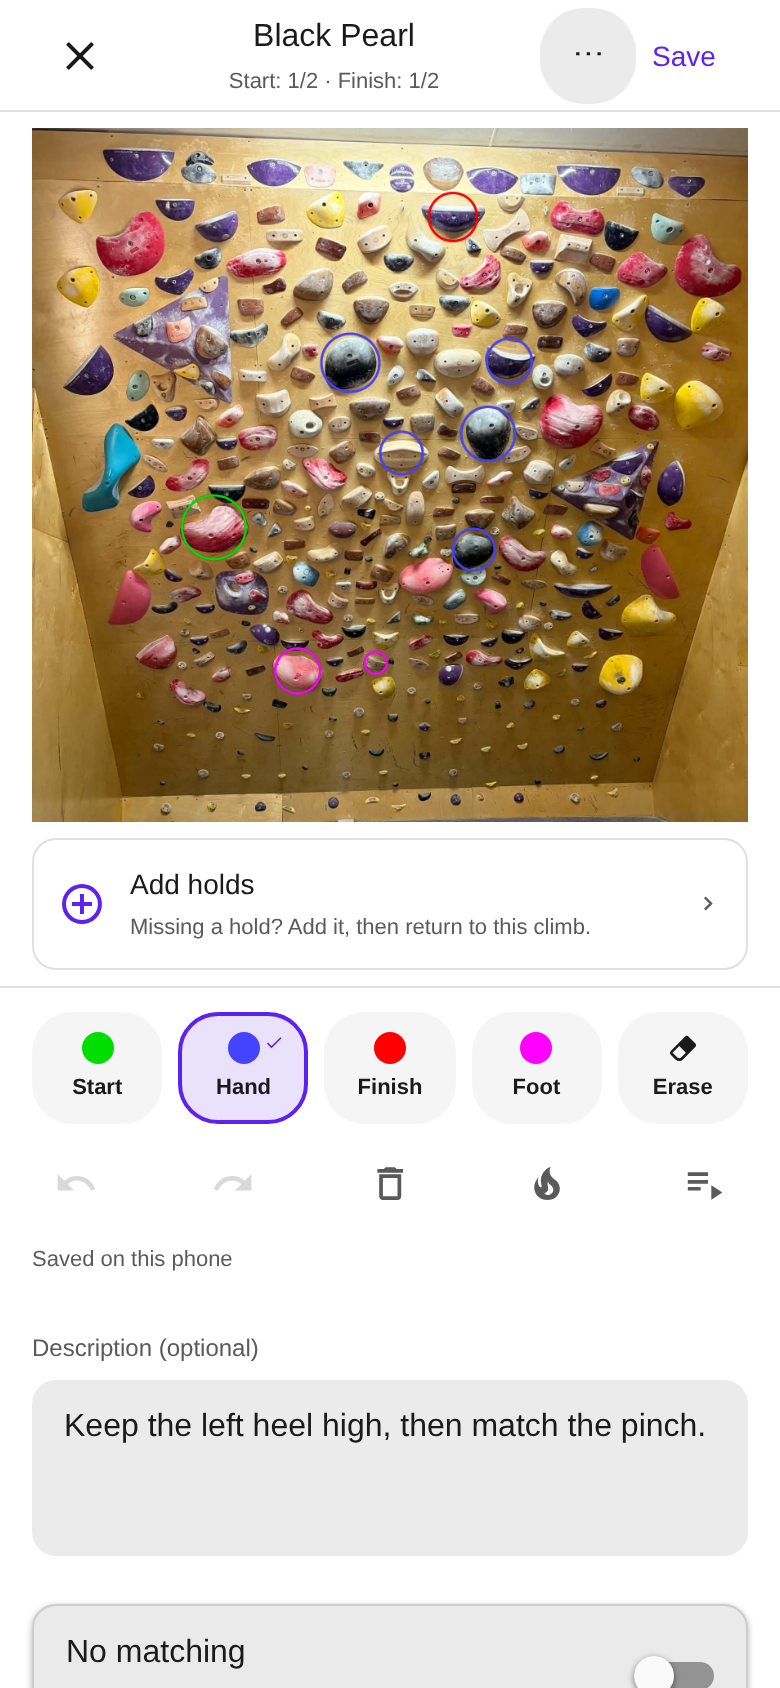
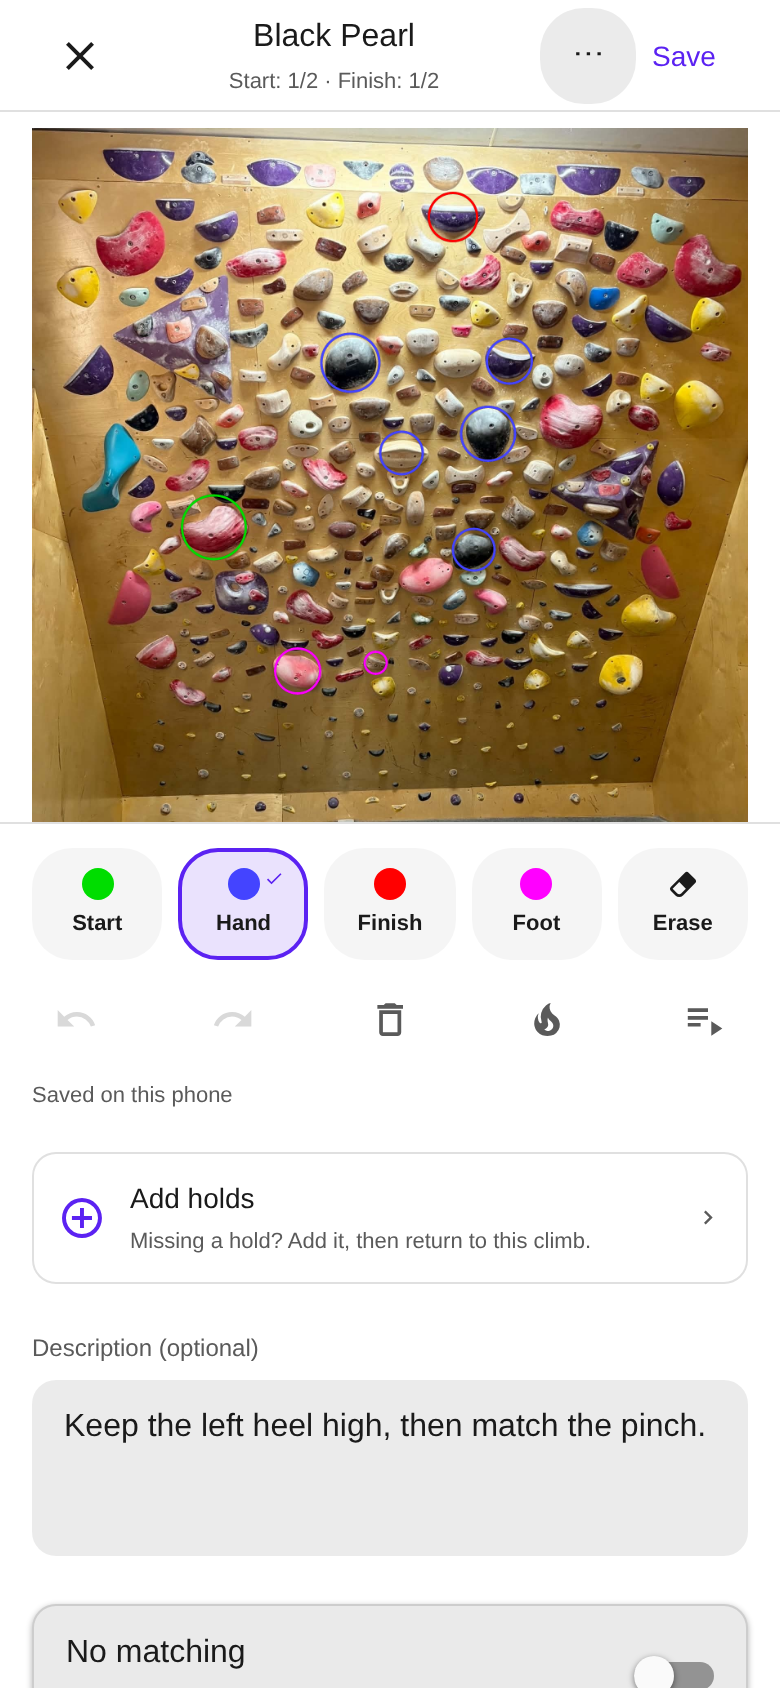
fix(mobile): keep Add holds below tools without sizing the wall

diff --git a/packages/mobile/src/components/create-climb/CreateClimb.stories.tsx b/packages/mobile/src/components/create-climb/CreateClimb.stories.tsx
@@ -67,7 +67,6 @@ function CreateClimbStory({ state, onReady, onError }: StoryRenderControls & { s
     state === 'loading' ? 'opening' : state === 'error' ? 'failed' : 'idle',
   );
   const [host, setHost] = useState({ width: windowDimensions.width, height: windowDimensions.height });
-  const [holdEntryHeight, setHoldEntryHeight] = useState(0);
   const [actionBarHeight, setActionBarHeight] = useState<number | undefined>(undefined);
   const frames = cleared ? '' : initialFrames;
   const paintedHolds = useMemo(() => parseFramesToHoldRows('spray', frames), [frames]);
@@ -80,7 +79,6 @@ function CreateClimbStory({ state, onReady, onError }: StoryRenderControls & { s
     insetTop: insets.top,
     insetBottom: windowInsetBottom,
     showRouteTransport: false,
-    extraControlsHeight: holdEntryHeight,
     actionBarHeight,
   });
   const boardHeight = Math.min(boardMaxHeight, ((host.width - spacing[4] * 2) * geometry.height) / geometry.width);
@@ -105,9 +103,6 @@ function CreateClimbStory({ state, onReady, onError }: StoryRenderControls & { s
         ? previous
         : { width: layout.width, height: layout.height },
     );
-  }, []);
-  const measureHoldEntry = useCallback(({ nativeEvent: { layout } }: LayoutChangeEvent) => {
-    setHoldEntryHeight((previous) => (previous === layout.height ? previous : layout.height));
   }, []);
   const measureActionBar = useCallback(({ nativeEvent: { layout } }: LayoutChangeEvent) => {
     if (layout.height > 0) {
@@ -163,17 +158,13 @@ function CreateClimbStory({ state, onReady, onError }: StoryRenderControls & { s
         keyboardDismissMode="on-drag"
         automaticallyAdjustKeyboardInsets
       >
-        <View style={{ height: boardHeight, marginTop: spacing[2], paddingHorizontal: spacing[4] }}>
+        <View
+          testID="create-climb-story-board"
+          style={{ height: boardHeight, marginTop: spacing[2], paddingHorizontal: spacing[4] }}
+        >
           <StorySprayBoard geometry={geometry} frames={frames} onReady={onReady} onError={onError} />
         </View>
-        <View onLayout={measureHoldEntry}>
-          <CreateAddHoldsRow
-            onPress={() => setHoldEditorState('opening')}
-            opening={holdEditorState === 'opening'}
-            failed={holdEditorState === 'failed'}
-          />
-        </View>
-        <View onLayout={measureActionBar}>
+        <View testID="create-climb-story-actions" onLayout={measureActionBar}>
           <CreateDrawerActionBar
             boardName="spray"
             selectedBrush={selectedBrush}
@@ -202,6 +193,11 @@ function CreateClimbStory({ state, onReady, onError }: StoryRenderControls & { s
             heatmapActive={heatmapActive}
           />
         </View>
+        <CreateAddHoldsRow
+          onPress={() => setHoldEditorState('opening')}
+          opening={holdEditorState === 'opening'}
+          failed={holdEditorState === 'failed'}
+        />
         <View style={{ paddingHorizontal: spacing[4], paddingTop: spacing[4] }}>
           <CreateDrawerFormView
             partnerAppsEnabled={false}

diff --git a/packages/mobile/src/components/create-climb/CreateDrawer.tsx b/packages/mobile/src/components/create-climb/CreateDrawer.tsx
@@ -108,7 +108,7 @@ export function CreateDrawer({
 }: CreateDrawerProps) {
   const { systemColors } = useTheme();
   const [holdListVisible, setHoldListVisible] = useState(false);
-  const [holdEntryHeight, setHoldEntryHeight] = useState(0);
+  const [missingHoldsHeight, setMissingHoldsHeight] = useState(0);
   const [actionBarHeight, setActionBarHeight] = useState<number | undefined>(undefined);
   const measureActionBar = useCallback((event: LayoutChangeEvent) => {
     const height = event.nativeEvent.layout.height;
@@ -117,9 +117,9 @@ export function CreateDrawer({
   const handleAddHolds = useCallback(() => {
     void onAddHolds?.();
   }, [onAddHolds]);
-  const measureHoldEntry = useCallback((event: LayoutChangeEvent) => {
+  const measureMissingHolds = useCallback((event: LayoutChangeEvent) => {
     const height = event.nativeEvent.layout.height;
-    setHoldEntryHeight((previous) => (previous === height ? previous : height));
+    setMissingHoldsHeight((previous) => (previous === height ? previous : height));
   }, []);
   const { t, i18n } = useTranslation('climbs');
   // A SEPARATE hook, not `useTranslation(['climbs', 'session'])`: with an array,
@@ -246,7 +246,7 @@ export function CreateDrawer({
     insetBottom: windowInsetBottom,
     showRouteTransport: controller.showRouteTransport,
     actionBarHeight,
-    extraControlsHeight: onAddHolds || controller.missingHoldCount > 0 ? holdEntryHeight : 0,
+    missingHoldsHeight: controller.missingHoldCount > 0 ? missingHoldsHeight : 0,
   });
 
   // Fit the board to the measured editing card. Window dimensions seed the
@@ -474,15 +474,7 @@ export function CreateDrawer({
                 />
               </View>
 
-              <View onLayout={measureHoldEntry}>
-                {onAddHolds ? (
-                  <CreateAddHoldsRow
-                    onPress={handleAddHolds}
-                    disabled={controller.saveState === 'saving' || controller.pendingNewClimb}
-                    opening={openingHoldEditor}
-                    failed={holdEditorOpenFailed}
-                  />
-                ) : null}
+              <View onLayout={measureMissingHolds}>
                 {controller.missingHoldCount > 0 ? (
                   <View style={styles.holdEntry}>
                     <Text variant="subheadline" color={systemColors.error} accessibilityLiveRegion="polite">
@@ -540,6 +532,16 @@ export function CreateDrawer({
                 />
               </View>
             </View>
+
+            {/* Secondary wall maintenance stays below painting and never sizes the wall. */}
+            {onAddHolds ? (
+              <CreateAddHoldsRow
+                onPress={handleAddHolds}
+                disabled={controller.saveState === 'saving' || controller.pendingNewClimb}
+                opening={openingHoldEditor}
+                failed={holdEditorOpenFailed}
+              />
+            ) : null}
 
             <View style={styles.belowFold}>
               <CreateDrawerForm

diff --git a/packages/mobile/src/components/create-climb/__tests__/create-drawer-layout.test.ts b/packages/mobile/src/components/create-climb/__tests__/create-drawer-layout.test.ts
@@ -68,7 +68,7 @@ describe('create drawer board budget', () => {
   });
 });
 
-describe('hold maintenance controls', () => {
+describe('primary editor controls', () => {
   it('reserves actual translated and large-text controls while keeping the board floor', () => {
     const budget = { windowHeight: 900, insetTop: 24, insetBottom: 34, showRouteTransport: false };
     const compact = computeBoardMaxHeight(budget);
@@ -77,9 +77,9 @@ describe('hold maintenance controls', () => {
     expect(computeBoardMaxHeight({ ...budget, actionBarHeight: 1000 })).toBe(MIN_BOARD_HEIGHT);
   });
 
-  it('reserves their measured height so painting tools stay visible', () => {
+  it('reserves only the save-blocking missing-hold notice', () => {
     const budget = { windowHeight: 900, insetTop: 24, insetBottom: 34, showRouteTransport: false };
-    expect(computeBoardMaxHeight({ ...budget, extraControlsHeight: 92 })).toBe(computeBoardMaxHeight(budget) - 92);
-    expect(computeBoardMaxHeight({ ...budget, extraControlsHeight: 180 })).toBe(computeBoardMaxHeight(budget) - 180);
+    expect(computeBoardMaxHeight({ ...budget, missingHoldsHeight: 92 })).toBe(computeBoardMaxHeight(budget) - 92);
+    expect(computeBoardMaxHeight({ ...budget, missingHoldsHeight: 180 })).toBe(computeBoardMaxHeight(budget) - 180);
   });
 });

diff --git a/packages/mobile/src/components/create-climb/__tests__/create-drawer-lost-holds.test.tsx b/packages/mobile/src/components/create-climb/__tests__/create-drawer-lost-holds.test.tsx
@@ -225,7 +225,17 @@ describe('visible hold-maintenance controls', () => {
     expect(view.queryByText('mobile.create.holds.openFailed')).toBeNull();
   });
 
-  it('labels the entry and calls it directly from beneath the board', () => {
+  it('keeps Add holds after the painting tools and outside their height budget', () => {
+    const element = drawerWith(undefined);
+    const view = render(createElement(CreateDrawer, { ...element.props, onAddHolds: async () => undefined }));
+    const addHolds = view.getByRole('button', { name: 'mobile.create.holds.add' });
+    const actionBar = view.container.querySelector('[data-node="action-bar"]');
+    if (!actionBar) throw new Error('Expected painting tools');
+    expect(actionBar.compareDocumentPosition(addHolds) & Node.DOCUMENT_POSITION_FOLLOWING).toBeTruthy();
+    expect(view.container.querySelector('[data-testid="create-drawer-board-block"]')?.contains(addHolds)).toBe(false);
+  });
+
+  it('labels the entry and calls it directly from below the painting controls', () => {
     const onAddHolds = vi.fn(async () => {});
     const element = drawerWith(undefined);
     const view = render(createElement(CreateDrawer, { ...element.props, onAddHolds }));

diff --git a/packages/mobile/src/components/create-climb/create-drawer-layout.ts b/packages/mobile/src/components/create-climb/create-drawer-layout.ts
@@ -69,8 +69,8 @@ export type BoardBudget = {
   insetBottom: number;
   /** Whether the route transport is on screen — a boulder pays nothing for it. */
   showRouteTransport: boolean;
-  /** Measured Add holds / missing-hold rows, including translated text. */
-  extraControlsHeight?: number;
+  /** Save-blocking missing-hold notice only. Secondary actions never reduce the wall. */
+  missingHoldsHeight?: number;
   /** Measured brush, tool and status rows; large text can grow all three. */
   actionBarHeight?: number;
 };
@@ -86,6 +86,6 @@ export function computeBoardMaxHeight(budget: BoardBudget): number {
       ABOVE_FOLD_CHROME -
       ((budget.actionBarHeight ?? CREATE_ACTION_BAR_HEIGHT) - CREATE_ACTION_BAR_HEIGHT) -
       routeSlotReserve -
-      (budget.extraControlsHeight ?? 0),
+      (budget.missingHoldsHeight ?? 0),
   );
 }

diff --git a/docs/mobile/screens/08-create-climb.md b/docs/mobile/screens/08-create-climb.md
@@ -31,9 +31,10 @@ rows, and the measured action-bar height contributes to the board's vertical
 budget. Status text may wrap without covering the board.
 
 On an editable Spraywall, Add holds is one full-width navigation row below the
-photo, including its hint, opening state and inline failure. The whole row is
-one target. Keep it inside the measured maintenance subtree so longer translated
-copy and failures still reserve space for painting controls. Description, climb
+painting controls, including its hint, opening state and inline failure. The
+whole row is one target. This secondary action is outside the wall-height budget:
+showing it, opening it, or displaying longer copy never takes space from the wall.
+Only save-blocking missing-hold guidance stays in the measured primary controls. Description, climb
 rules and publication controls remain below the tools; rule switches share an
 inset group, with Save as draft in its own group.
 

diff --git a/docs/mobile/screens/images/create-climb-design/README.md b/docs/mobile/screens/images/create-climb-design/README.md
@@ -17,3 +17,9 @@ animation frames. Fixture scenes do not exercise accounts, persistence, or BLE.
 | Light, painted climb | [Before](before-light.png) | [After](after-light.png) |
 
 [Grouped metadata and publication settings](after-settings.png).
+
+The secondary Add holds row follows the primary painting controls and is excluded
+from wall sizing. [Small-viewport measurements](wall-sizing.json) verify that the
+375 × 667 preview renders a 332.8 px wall in idle, opening, and failure states.
+Hiding the row or increasing its minimum height to 240 px leaves the wall height
+unchanged. The measured wall matches its maximum available size to pixel rounding.
